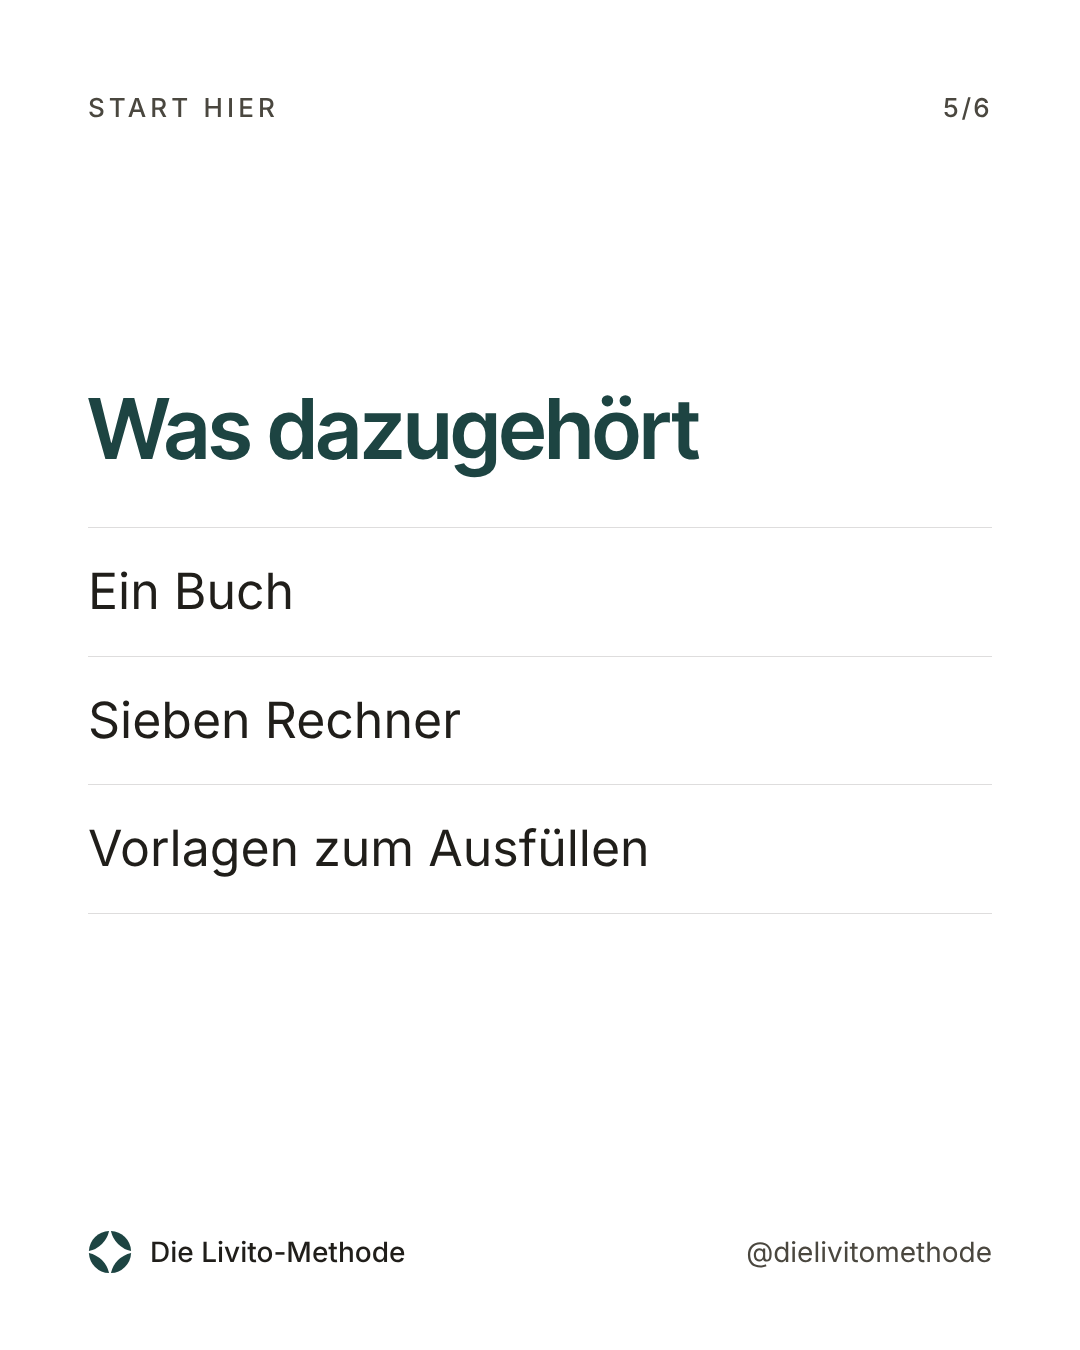
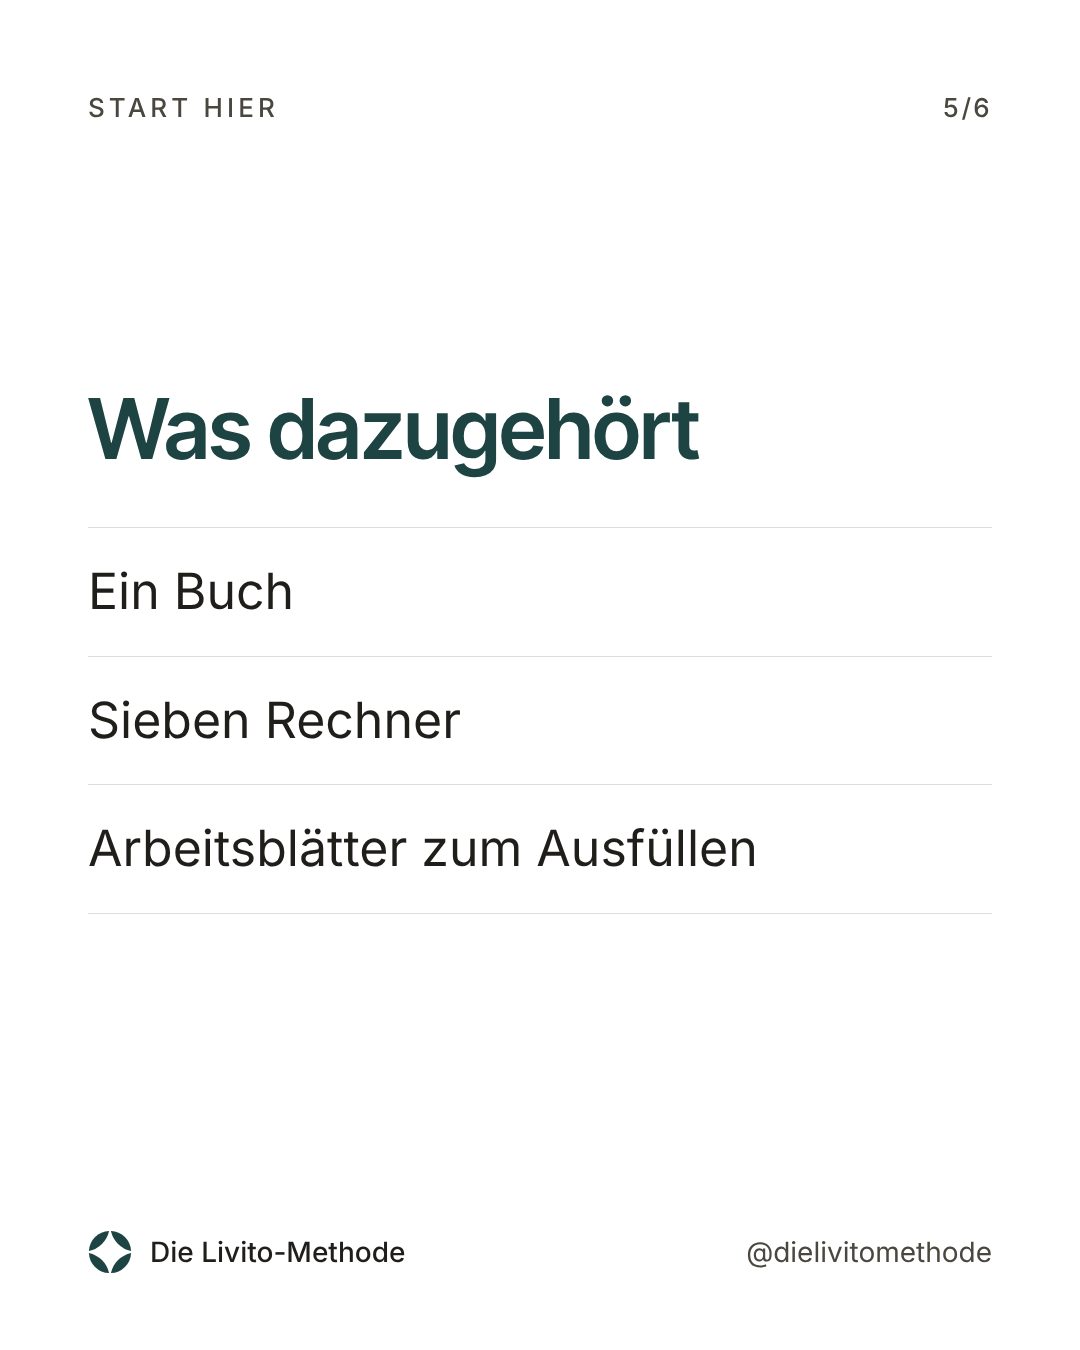
Methode Folie 5: Arbeitsblätter statt Vorlagen
Claude-Session: https://claude.ai/code/session_01MDUNgoVw8K3wtGB1G4TM1S

Changed region(s): [[0.0917, 0.5911, 0.7028, 0.6533]]

diff --git a/system/slides.html b/system/slides.html
@@ -115,7 +115,7 @@ const C = {
   s=>`${kopf(s.label,2,s.n)}<div class="mid"><h2 class="h">Eine Reihenfolge</h2><p class="body">Erst der Notgroschen, dann raus aus den Schulden, dann ein echter Puffer, dann die Altersvorsorge.</p></div>${foot(false)}`,
   s=>`${kopf(s.label,3,s.n)}<div class="mid"><h2 class="h">Kein Versprechen auf Reichtum</h2><p class="body">Es geht nicht darum, reich zu werden.</p><p class="body">Es geht darum zu wissen, dass der Kontostand reicht.</p></div>${foot(false)}`,
   s=>`${kopf(s.label,4,s.n)}<div class="mid"><h2 class="h">Woher der Name kommt</h2><p class="body">Livito kommt vom italienischen lievito, Hefe.</p><p class="body">Wie beim Sauerteig: einmal ansetzen, regelmäßig füttern, den Rest erledigt die Zeit.</p></div>${foot(false)}`,
-  s=>`${kopf(s.label,5,s.n)}<div class="mid"><h2 class="h">Was dazugehört</h2><ul class="list"><li>Ein Buch</li><li>Sieben Rechner</li><li>Vorlagen zum Ausfüllen</li></ul></div>${foot(false)}`,
+  s=>`${kopf(s.label,5,s.n)}<div class="mid"><h2 class="h">Was dazugehört</h2><ul class="list"><li>Ein Buch</li><li>Sieben Rechner</li><li>Arbeitsblätter zum Ausfüllen</li></ul></div>${foot(false)}`,
   s=>`${kopf(s.label,6,s.n)}<div class="mid"><p class="statement">Hier lernst du Gelassenheit mit Geld.</p><p class="sub">Folge @dielivitomethode.</p></div>${foot(true)}`,
  ]},
  schritte: { label:'Start hier', n:6, slides:[
